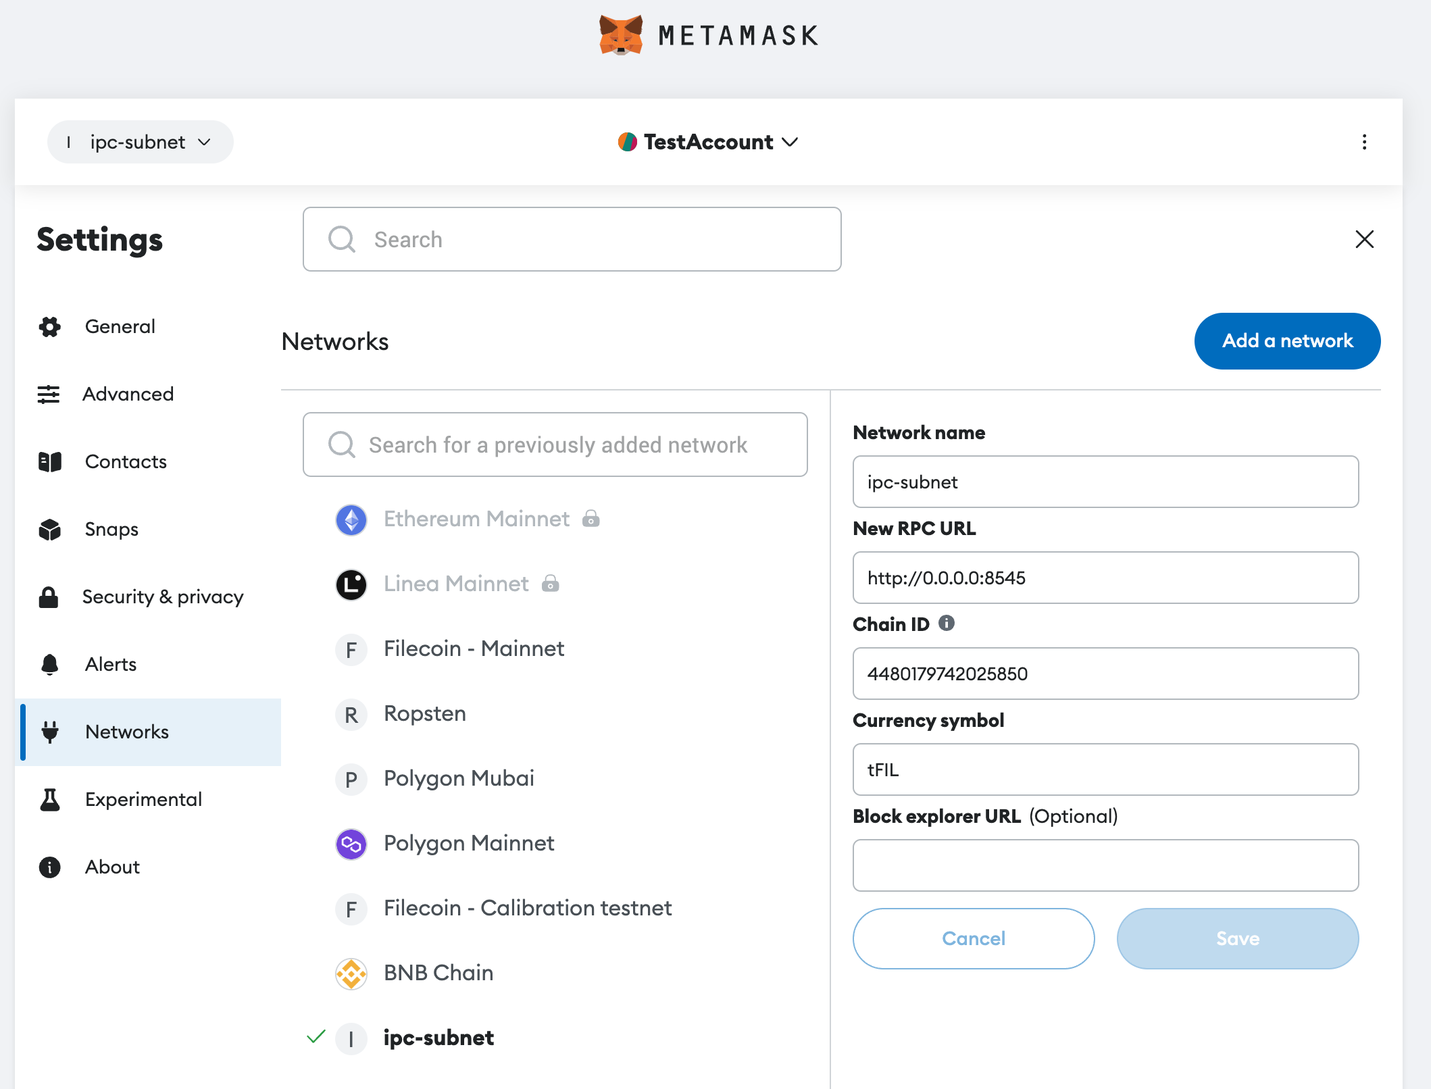
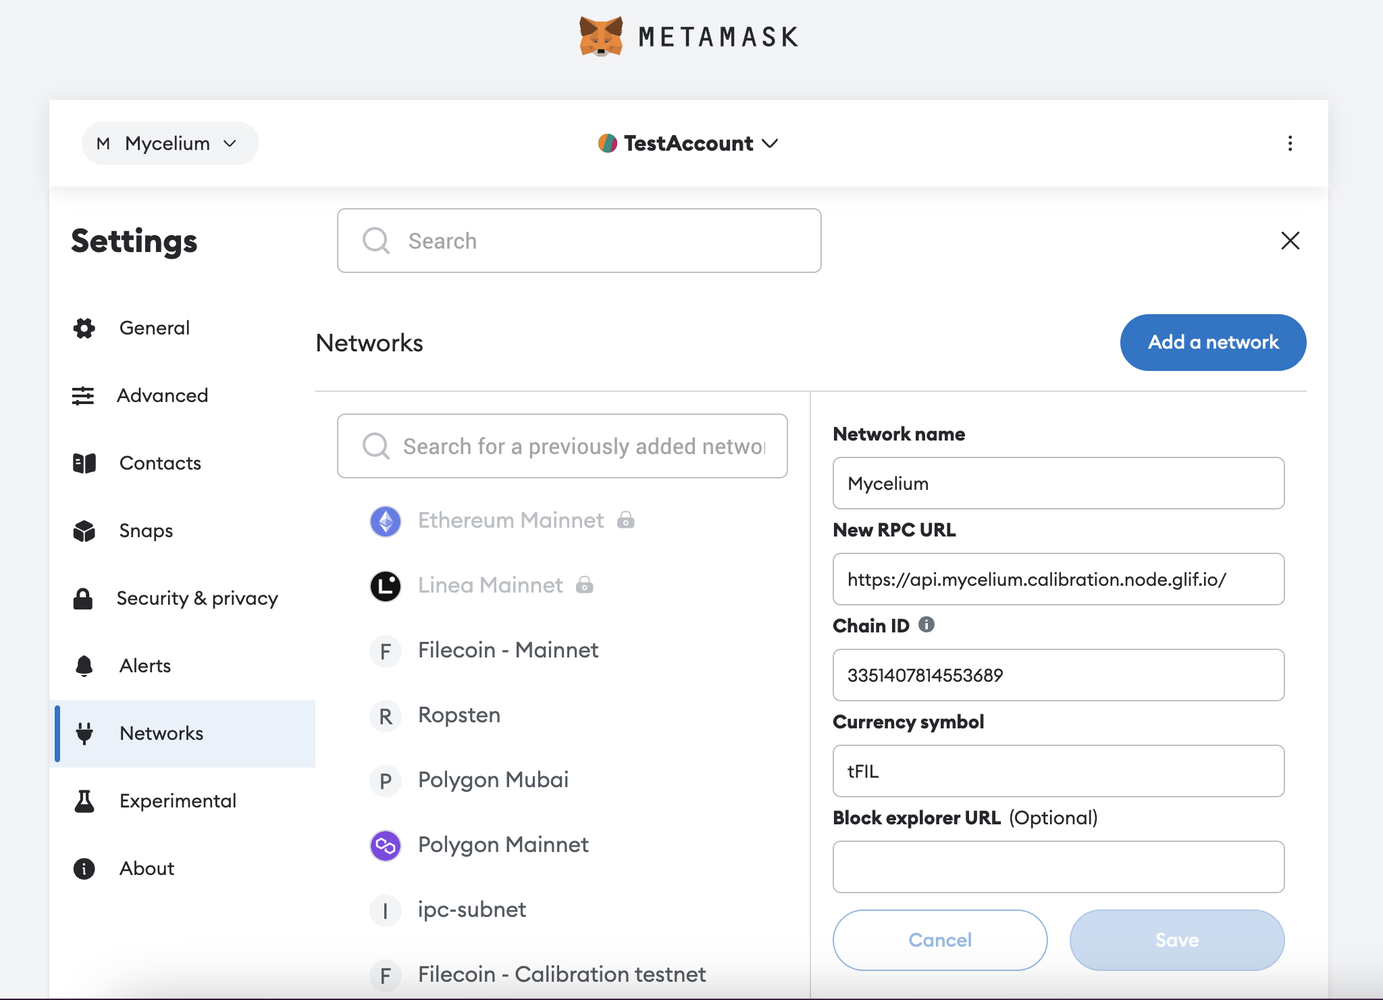
GITBOOK-22: using Mycelium in SC tutorial

diff --git a/quickstarts/deploy-smart-contracts-to-mycelium.md b/quickstarts/deploy-smart-contracts-to-mycelium.md
@@ -1,12 +1,12 @@
-# Deploy smart contracts to a subnet
+# Deploy smart contracts to Mycelium
 
 Before delving into this tutorial, you should have a [basic understanding of IPC](../) and [subnets](../key-concepts/subnets.md). You may want to familiarize yourself with the fundamentals of setting up an IPC subnet, in the [previous quickstart](deploy-a-subnet.md).&#x20;
 
-In this tutorial, we will guide you through the simple process of connecting to an IPC subnet and deploying smart contracts.  We will use the ERC20 contract as an example to illustrate the steps, including:
+In this tutorial, we will guide you through the simple process of connecting to the Mycelium Calibration testnet and deploying smart contracts on it.  We will use the ERC20 contract as an example to illustrate the steps, including:
 
-* Connect to an IPC subnet
-* Fund your address on the IPC subnet
-* Deploy a ERC20 contract on the subnet
+* Connect to the Mycelium Calibration
+* Fund your address on the Mycelium Calibration
+* Deploy a ERC20 contract on the Mycelium Calibration
 
 ## Prerequisites
 
@@ -16,17 +16,17 @@ In this tutorial, we will guide you through the simple process of connecting to 
 * [Docker](https://www.docker.com/products/docker-desktop/)
 * [MetaMask](https://metamask.io/download/)
 
-## Connect to an IPC subnet
+## Connect to the Mycelium Calibration
 
-The Filecoin Calibration testnet will the IPC rootnet to host multiple IPC subnets for testing, each offering distinct features and capacities. Builders have the flexibility to select a subnet that suits their specific requirements for deploying smart contracts. Alternatively, if builders have unique needs, they can set up their own subnet. If you are interested in learning more about IPC rootnet and subnets, you can read more [here](../key-concepts/subnets.md).&#x20;
+The Filecoin Calibration testnet will be the IPC rootnet to host multiple IPC subnets for testing, each offering distinct features and capacities. Builders have the flexibility to select a subnet that suits their specific requirements for deploying smart contracts. Alternatively, if builders have unique needs, they can set up their own subnet. If you are interested in learning more about IPC rootnet and subnets, you can read more [here](../key-concepts/subnets.md).&#x20;
 
-In this quickstart guide, we will utilize an existing subnet, connected to Filecoin Calibration testnet, to deploy and interact with smart contracts.
+In this quickstart guide, we will utilize the **public subnet** - **the Mycelium Calibration**, connected to Filecoin Calibration testnet, to deploy and interact with smart contracts.
 
-To begin, the first step is to establish a connection to our subnet, enabling you to seamlessly interact with it. As IPC is still undergoing active development, the recommended approach for querying subnet information or engaging with a subnet is to utilize `ipc-cli`. This command-line tool is the primary entry point for interacting with IPC subnets.
+To begin, the first step is to establish a connection to the Mycelium Calibration, enabling you to seamlessly interact with it. As IPC is still undergoing active development, the recommended approach for querying subnet information or engaging with a subnet is to utilize `ipc-cli`. This command-line tool is the primary entry point for interacting with IPC subnets.
 
 ### Install & config `ipc-cli`
 
-To interact with any IPC subnet, we will need to use `ipc-cli` as a user and execute various processes specific to the subnet. Before proceeding, ensure that we have `Rust stable` installed on the machine, as it is required to build `ipc-cli`. Additionally, depending on the environment, there may be additional dependencies that need to be installed.
+To interact with any IPC subnet, we will use `ipc-cli` as a user and execute various processes specific to the subnet. Before proceeding, ensure that we have `Rust stable` installed on the machine, as it is required to build `ipc-cli`. Additionally, depending on the environment, there may be additional dependencies that need to be installed.
 
 **Ensure basic dependencies are installed.**&#x20;
 
@@ -54,38 +54,28 @@ ipc-cli config init
 
 The configuration file `~/.ipc/config.toml` already includes all the necessary parameters to establish a connection with the calibration network. Additional subnet parameters can be added to this configuration file, enabling `ipc-cli` to connect to specific IPC subnets.
 
-#### **3. Configure `ipc-cli` to connect to the subnet**
+#### **3. Configure `ipc-cli` to connect to** the Mycelium Calibration
 
-To connect our subnet, we need to append the new subnet params to the IPC configuration file `~/.ipc/config.toml`.&#x20;
+To connect to the Mycelium Calibration, we need to append the new subnet params to the IPC configuration file `~/.ipc/config.toml`.&#x20;
 
 ```
 [[subnets]]
-id = "/r314159/*****"
+id = "/r314159/t410fug7q7fgzeehfgr6qlubzs45z2sjzcbw3nbhpiyi"
 
 [subnets.config]
 network_type = "fevm"
-provider_http = "http://******:*****"
-gateway_addr = "0xc7068Cea947035560128a6a6F4c8913523A5A44C"
-registry_addr = "0x0341fA160C66aBB112195192aE359a6D61df45cd"
+provider_http = "https://api.mycelium.calibration.node.glif.io/"
+gateway_addr = "0x77aa40b105843728088c0132e43fc44348881da8"
+registry_addr = "0x74539671a1d2f1c8f200826baba665179f53a1b7"
 ```
 
-* **id**: This subnet-id represents our subnet.
+* **id**: This subnet-id represents the Mycelium Calibration.
 * **network\_type**: IPC subnet supports `fevm` and will support more network environments in the future.
 * **provider\_http**: the URL to send the RPC API requests.
 * **gateway\_addr**: the gateway smart contract address deployed on your subnet.
 * **registry\_add**: the registry smart contract address deployed on your subnet.
 
-With this configuration, we should be able to start interacting with the subnet directly through `ipc-cli`. Let's try to request the RPC URL and `chainID` for the subnet to test if the configuration works.
-
-```sh
-ipc-cli subnet rpc --subnet <subnet-id>
-
-# Command Example
-ipc-cli subnet rpc --subnet /r314159/t410f2pwcoiedenugdu5mj2kfcjmsbbl2krhwqgptzeq
-
-rpc: "<http://0.0.0.0:8545/>"
-chainID: "4480179742025850"
-```
+With this configuration, we should be able to start interacting with the Mycelium directly through `ipc-cli`.&#x20;
 
 ### Add the subnet to your MetaMask wallet (manually)
 
@@ -93,20 +83,7 @@ Since IPC subnets are EVM-compatible, you can leverage various tools from the Et
 
 In this step, we will guide you through the process of manually configuring MetaMask to connect to our subnet. By doing so, we will be able to manage tokens and interact with dApps deployed on this specific subnet using MetaMask.
 
-#### **1. Getting subnet-id**
-
-First, You need to get some information about the IPC subnet via `ipc-cli` commands. This following command will list all the available subnets deployed on Calibration (subnet-id is `r314159`).
-
-```sh
-ipc-cli subnet list --subnet <subnet-id>
-
-# Command Example
-ipc-cli subnet list --subnet /r314159
-```
-
-Next, you can locate your subnet in the list, and the most important is `subnet-id` which will be used to represent that subnet within the IPC network.
-
-#### **2. Getting RPC URL & Chain ID**
+#### **1. Getting RPC URL & Chain ID**
 
 With the `subnet-id`, we can use the following command to query the RPC URL and `chainID` for our subnet.
 
@@ -114,19 +91,19 @@ With the `subnet-id`, we can use the following command to query the RPC URL and 
 ipc-cli subnet rpc --subnet <subnet-id>
 
 # Command Example
-ipc-cli subnet rpc --subnet /r314159/t410f2pwcoiedenugdu5mj2kfcjmsbbl2krhwqgptzeq
+ipc-cli subnet rpc --subnet /r314159/t410fug7q7fgzeehfgr6qlubzs45z2sjzcbw3nbhpiyi
 
-rpc: "<http://0.0.0.0:8545/>"
-chainID: "4480179742025850"
+rpc: "https://api.mycelium.calibration.node.glif.io/"
+chainID: "3351407814553689"
 ```
 
 With the gathered information, you now have all the necessary details to manually add your subnet network to MetaMask.
 
-<figure><img src="../.gitbook/assets/metamask (1).png" alt=""><figcaption><p>Add Canopy network to the MetaMask.</p></figcaption></figure>
+<figure><img src="../.gitbook/assets/metamask.png" alt=""><figcaption><p>Add Canopy network to the MetaMask.</p></figcaption></figure>
 
-## Fund your address on the IPC subnet
+## Fund your address on the Mycelium Calibration
 
-Since our subnet operates as a layer 2 network on top of Filecoin, it is necessary to transfer some tFIL tokens from the Filecoin Calibration testnet (rootnet) to our wallet within the subnet. This ensures that we have an adequate token balance for performing actions on the subnet.&#x20;
+Since any IPC subnet operates as a layer 2 network on top of Filecoin, it is necessary to transfer some tFIL tokens from the Filecoin Calibration testnet (rootnet) to our wallet within the Mycelium Calibration. This ensures that we have an adequate token balance for performing actions on the subnet.&#x20;
 
 To facilitate this transfer, we will utilize `ipc-cli`. This tool will handle the process of locking tFIL in the smart contract on the Calibration network and subsequently releasing the funds to your wallet address within the subnet.
 
@@ -154,7 +131,7 @@ ipc-cli wallet balances --subnet /r314159 --wallet-type evm
 
 #### **3. Send tFIL to the subnet**
 
-After receiving tFIL in our wallet on Filecoin Calibration testnet, we can send some tFIL tokens down to our wallet address on the subnet using the following command. We will use the wallet address from MetaMask as to address to receive tFIL on the subnet.
+After receiving tFIL in our wallet on the Filecoin Calibration testnet, we can send tFIL tokens down to our wallet address on the Mycelium Calibration using the following command. We will use the wallet address from MetaMask as to address to receive tFIL on the subnet.
 
 {% code overflow="wrap" %}
 ```bash
@@ -163,27 +140,27 @@ ipc-cli cross-msg fund --subnet <subnet-id> [--from <from-addr>] [--to <to-addr>
 # --to is optional. If not specified, will use the same address in subnet
 
 # Command Example
-ipc-cli cross-msg fund --subnet /r314159/t410f2pwcoiedenugdu5mj2kfcjmsbbl2krhwqgptzeq --to 0xd388aB098ed3E84c0D808776440B48F685198498 1
+ipc-cli cross-msg fund --subnet /r314159/t410fug7q7fgzeehfgr6qlubzs45z2sjzcbw3nbhpiyi --to 0xd388aB098ed3E84c0D808776440B48F685198498 10
 
-[2023-10-31T09:28:52Z INFO  ipc_provider::manager::evm::manager] fund with evm gateway contract: t410fk2ki2lh2ulxtkw4mbcwjeuqc3mqscrwrkmrzo4a with value: 1000000000000000000, original: TokenAmount(1.0)
-fund performed in epoch: 1047272
+[2023-10-31T09:28:52Z INFO  ipc_provider::manager::evm::manager] fund with evm gateway contract: t410fk2ki2lh2ulxtkw4mbcwjeuqc3mqscrwrkmrzo4a with value: 1000000000000000000, original: TokenAmount(10.0)
+fund performed in epoch: 1085104
 ```
 {% endcode %}
 
-It will take some time for the tokens to arrive in our subnet wallet from its rootnet - Calibration. This process is set to take \* epochs for the confirmation, considering the finality of the Filecoin Calibration rootnet. But once the tFIL is confirmed and transferred to the wallet address on the subnet, we can transfer tokens within that subnet very quickly.
+It will take some time for the tokens to arrive in the Mycelium Calibration wallet from its rootnet - Calibration. This process is set to take 10 epochs for the confirmation, considering the finality of the Filecoin Calibration rootnet. But once the tFIL is confirmed and transferred to the wallet address on Mycelium, we can transfer tokens within that Mycelium very quickly.
 
-There are a couple of ways to check token balance in the IPC subnet.
+There are a couple of ways to check the token balance in the IPC subnet.
 
 *   **`ipc-cli` command**
 
-    Use the `subnet-id` for our subnet.
+    Use the `subnet-id` for the Mycelium Calibration.
 
     ```sh
-    ipc-cli wallet balances --subnet /r314159/t410f2pwcoiedenugdu5mj2kfcjmsbbl2krhwqgptzeq -w evm
+    ipc-cli wallet balances --subnet /r314159/t410fug7q7fgzeehfgr6qlubzs45z2sjzcbw3nbhpiyi -w evm
     ```
 *   **ETH API**
 
-    We can also send RPC API request to the subnet node to query the wallet balance of certain wallet address.
+    We can also send RPC API request to the Mycelium Calibration node to query the wallet balance of a certain wallet address.
 
     {% code overflow="wrap" %}
     ```sh
@@ -197,9 +174,9 @@ There are a couple of ways to check token balance in the IPC subnet.
 
 After acquiring some test tokens in the MetaMask wallet, we can begin working on the smart contract for the IPC subnet.
 
-## Deploy ERC20 contract on the subnet&#x20;
+## Deploy ERC20 contract on the Mycelium Calibration&#x20;
 
-As mentioned earlier, IPC subnets are EVM-compatible, allowing us to utilize various tools and frameworks that support Solidity development for building and deploying smart contracts on the IPC subnets. Let's take Remix and hardhat as examples for developing an ERC20 token contract on the IPC subnet.
+As mentioned earlier, IPC subnets are EVM-compatible, allowing us to utilize various tools and frameworks that support Solidity development for building and deploying smart contracts on the IPC subnets. Let's take Remix and hardhat as examples for developing an ERC20 token contract on the IPC Mycelium Calibration.
 
 ### Using Remix & MetaMask
 
@@ -223,28 +200,28 @@ Set the Solidity compiler version to 0.8.20 on the Solidity Compiler page. This 
 
 #### **4. Deploy contract to IPC subnet**
 
-In this step, we will utilize MetaMask to sign and send deployment transactions to the IPC subnet. Ensure that MetaMask is connected to the IPC subnet, and select `Injected Provider - MetaMask` as the deployment environment in Remix.
+In this step, we will utilize MetaMask to sign and send deployment transactions to the Mycelium subnet. Ensure that MetaMask is connected to the Mycelium subnet, and selected `Injected Provider - MetaMask` as the deployment environment in Remix.
 
 <figure><img src="../.gitbook/assets/InjectMM (1).png" alt=""><figcaption><p>Use MetaMask to sign the transaction</p></figcaption></figure>
 
-Set your wallet address (copy from MetaMask) as the initial owner of this ERC20 token when deploying it. Review and confirm the deployment transaction on the MetaMask pop-up window after clicking the **Deploy** button. Once confirmed, the ERC20 token contract will be deployed on the IPC subnet.
+Set your wallet address (copy from MetaMask) as the initial owner of this ERC20 token when deploying it. Review and confirm the deployment transaction on the MetaMask pop-up window after clicking the **Deploy** button. Once confirmed, the ERC20 token contract will be deployed on the Mycelium Calibration.
 
 <figure><img src="../.gitbook/assets/deployed.png" alt=""><figcaption><p>Deploy the smart contract</p></figcaption></figure>
 
 #### **5. Invoke smart contract on Remix**
 
-After successfully deploying your contract to the IPC subnet, you will be able to see your contract listed in the **Deployed Contracts** section on the left side of Remix. Expand the deployed contract, all the contract methods will be listed for us to try. Let’s try to call the mint function to mint ERC20 tokens in your wallet. We need to specify:
+After successfully deploying your contract to the Mycelium Calibration, you will be able to see your contract listed in the **Deployed Contracts** section on the left side of Remix. Expand the deployed contract, all the contract methods will be listed for us to try. Let’s try to call the mint function to mint ERC20 tokens in your wallet. We need to specify:
 
 * **to**: the address to receive the minted ERC20 token
 * **amount**: the amount of tokens to be minted.
 
 <figure><img src="../.gitbook/assets/invoke (1).png" alt=""><figcaption><p>Invoke smart contract</p></figcaption></figure>
 
-After the transaction is confirmed on the IPC subnet, we will be able to call `balanceOf` to check if the tokens have been successfully minted to our wallet address.
+After the transaction is confirmed on the Mycelium Calibration, we will be able to call `balanceOf` to check if the tokens have been successfully minted to our wallet address.
 
 ### Using hardhat
 
-In addition to using the Remix UI, there are more programmable approaches to develop smart contracts using frameworks like [hardhat](https://hardhat.org/) and [foundry](https://github.com/foundry-rs/foundry). Let's take hardhat as an example to develop and deploy a basic ERC20 token on the IPC Subnet.
+In addition to using the Remix UI, there are more programmable approaches to develop smart contracts using frameworks like [hardhat](https://hardhat.org/) and [foundry](https://github.com/foundry-rs/foundry). Let's take hardhat as an example to develop and deploy a basic ERC20 token on the Mycelium Calibration.
 
 Before moving forward, ensure we have the following dependencies installed on the machine.
 
@@ -271,7 +248,7 @@ npm install --save-dev hardhat
 npx hardhat init
 ```
 
-#### **2. Config hardhat to connect to IPC subnet**
+#### **2. Config hardhat to connect to** the Mycelium Calibration
 
 Now we should have a hardhat JavaScript project with a basic project structure where we can find a `hardhat.config.js` file with all the configurations for this hardhat project.
 
@@ -281,7 +258,7 @@ Considering the security of your project, we will use the `.evn` file to store s
 PRIVATE_KEY="<your-wallet-private-key>"
 ```
 
-Open `hardhat.config.js` with VsCode, we will add IPC network configuration in this file. Make sure you have installed the `dotenv` package in your project by running `npm install dotenv`. Next, let's retrieve the ChainId and URL for the IPC subnet from the previous step. We will use them to configure the IPC network.
+Open `hardhat.config.js` with VsCode, we will add IPC network configuration in this file. Make sure you have installed the `dotenv` package in your project by running `npm install dotenv`. Next, let's retrieve the ChainId and URL for the Mycelium Calibration from the [previous step](deploy-smart-contracts-to-mycelium.md#1.-getting-rpc-url-and-chain-id). We will use them to configure the IPC network.
 
 In the `hardhat.config.js` file, add the following code.
 
@@ -294,16 +271,16 @@ const WalletPK = process.env.PRIVATE_KEY;
 module.exports = {
   solidity: "0.8.20", //Update solidity version for Openzeppline contracts
   networks: {
-    ipcSubnet: {
-        chainId: 4480179742025850,
-        url: "<http://0.0.0.0:8545>",
+    Mycelium: {
+        chainId: 3351407814553689,
+        url: "https://api.mycelium.calibration.node.glif.io/",
         accounts: [WalletPK]
     }
   }
 };
 ```
 
-#### **3. Create ERC20 contract.**
+#### **3. Create an ERC20 contract.**
 
 We will use a basic ERC20 example from Openzeppline for this tutorial, so let’s install Openzeppline first with the following command.
 
@@ -322,7 +299,7 @@ import "@openzeppelin/contracts/access/Ownable.sol";
 
 contract IPCERC20 is ERC20, Ownable{
     constructor (address initialOwner)
-        ERC20("My first IPC test token on subnet", "TT_IPC")
+        ERC20("My first IPC test token on Mycelium", "TT_IPC")
         Ownable(initialOwner)
     {}
 
@@ -342,7 +319,7 @@ npx hardhat compile
 Compiled 8 Solidity files successfully (evm target: paris).
 ```
 
-Now we are ready to deploy this ERC20 token to your IPC subnet. We can write a deployment script  `script/deploy.js` as follows.
+Now we are ready to deploy this ERC20 token to the Mycelium Calibration. We can write a deployment script  `script/deploy.js` as follows.
 
 ```jsx
 const { ethers } = require('hardhat');
@@ -369,10 +346,10 @@ main().catch((error) => {
 });
 ```
 
-Using the `hardhat run` command to run a specific deployment script to our IPC subnet network configured in `hardhat.config.js` .
+Using the `hardhat run` command to run a specific deployment script to the Mycelium Calibration network configured in `hardhat.config.js` .
 
 ```jsx
-npx hardhat run scripts/deploy.js --network ipcSubnet
+npx hardhat run scripts/deploy.js --network Mycelium
 
 Deploying contracts with the account: 0xd388aB098ed3E84c0D808776440B48F685198498
 Wallet balance is  18.265091067491548
@@ -386,7 +363,7 @@ IPC ERC20 Token Contract deployed to  0x435A9BDE7A04b1C91a41eAfEf3f7E84dC37a83C4
 
 #### **5. Interact with your contract**
 
-After deploying the ERC20 token to the IPC subnet and receiving the contract address, we will add it to the `.env` file so that we can directly access it in the Hardhat project.
+After deploying the ERC20 token to the Mycelium Calibration and receiving the contract address, we will add it to the `.env` file so that we can directly access it in the Hardhat project.
 
 Open the `.env` file and add the following line, replacing `<contract-address>` with the actual deployed contract address.
 
@@ -433,12 +410,12 @@ main().catch((error) => {
 });
 ```
 
-Now, let's run the script to interact with your deployed ERC20 token on the IPC subnet. This will help verify that the token contract is deployed and working correctly.
+Now, let's run the script to interact with your deployed ERC20 token on the Mycelium Calibration. This will help verify that the token contract is deployed and working correctly.
 
 To run the script, execute the following command in your terminal.
 
 ```sh
-npx hardhat run --network ipcSubnet scripts/invokeToken.js
+npx hardhat run --network Mycelium scripts/invokeToken.js
 
 Token name is  My first IPC test token
 Token symbol is  IPCTT
@@ -447,6 +424,6 @@ My balance is  0.0
 My new balance is  100.0
 ```
 
-Congratulations! You have successfully deployed your first ERC20 contract on the IPC subnet and even interacted with it. \
+Congratulations! You have successfully deployed your first ERC20 contract on the Mycelium Calibration and even interacted with it. \
 \
 Now, it's time to dive deeper and explore the exciting array of features available on the IPC subnet.

diff --git a/key-concepts/subnets.md b/key-concepts/subnets.md
@@ -25,5 +25,5 @@ To ensure security of a subnet, child subnets within a single hierarchy treee, p
 ## Subnet usage
 
 * **Deploying and operating a subnet.** This is for developers who want to operate their own private or public subnet, as they can be temporarily deployed and closed down, to increase network throughput as needed. See the quickstart tutorial [here](../quickstarts/deploy-a-subnet.md).
-* **Deploying smart contracts to an existing subnet.** This is for developers who want to build dApps on top of an existings subnets. See the quickstart tutorial [here](../quickstarts/deploy-smart-contracts-to-a-subnet.md).
+* **Deploying smart contracts to an existing subnet.** This is for developers who want to build dApps on top of an existings subnets. See the quickstart tutorial [here](../quickstarts/deploy-smart-contracts-to-mycelium.md).
 * For more on how fees work with IPC subnets, see [here](fees.md).

diff --git a/quickstarts/deploy-a-subnet.md b/quickstarts/deploy-a-subnet.md
@@ -2,7 +2,7 @@
 
 Before delving into this tutorial, you should have a [basic understanding of IPC](../).&#x20;
 
-Please note that you do not need to deploy your own subnet, in order to build on one. For deploying smart contracts to an existing subnet, check out [the next quickstart](deploy-smart-contracts-to-a-subnet.md).
+Please note that you do not need to deploy your own subnet, in order to build on one. For deploying smart contracts to an existing subnet, check out [the next quickstart](deploy-smart-contracts-to-mycelium.md).
 
 In this tutorial, we will guide you through the process of spinning up your own IPC subnet validator node and anchoring it to the [Filecoin Calibration testnet](../reference/networks.md). We will use a repository with a pre-built docker image to simplify deployment of the IPC tooling. Steps include:
 

diff --git a/quickstarts/README.md b/quickstarts/README.md
@@ -7,4 +7,4 @@ description: Start building the basics on IPC.
 This section covers quickstarts to get started on core functionalities of IPC. We will cover:
 
 1. [How to deploy a subnet](deploy-a-subnet.md). This is for developers who want to operate their own private subnet.&#x20;
-2. [How to deploy smart contracts to a subnet](deploy-smart-contracts-to-a-subnet.md). This is for developers who want to build dApps on top of an existing subnet.&#x20;
+2. [How to deploy smart contracts to a subnet](deploy-smart-contracts-to-mycelium.md). This is for developers who want to build dApps on top of an existing subnet.&#x20;

diff --git a/SUMMARY.md b/SUMMARY.md
@@ -3,7 +3,7 @@
 * [Overview](README.md)
 * [Quickstarts](quickstarts/README.md)
   * [Deploy a subnet](quickstarts/deploy-a-subnet.md)
-  * [Deploy smart contracts to a subnet](quickstarts/deploy-smart-contracts-to-a-subnet.md)
+  * [Deploy smart contracts to Mycelium](quickstarts/deploy-smart-contracts-to-mycelium.md)
 * [Key Concepts](key-concepts/README.md)
   * [Architecture](key-concepts/architecture.md)
   * [Subnets](key-concepts/subnets.md)
